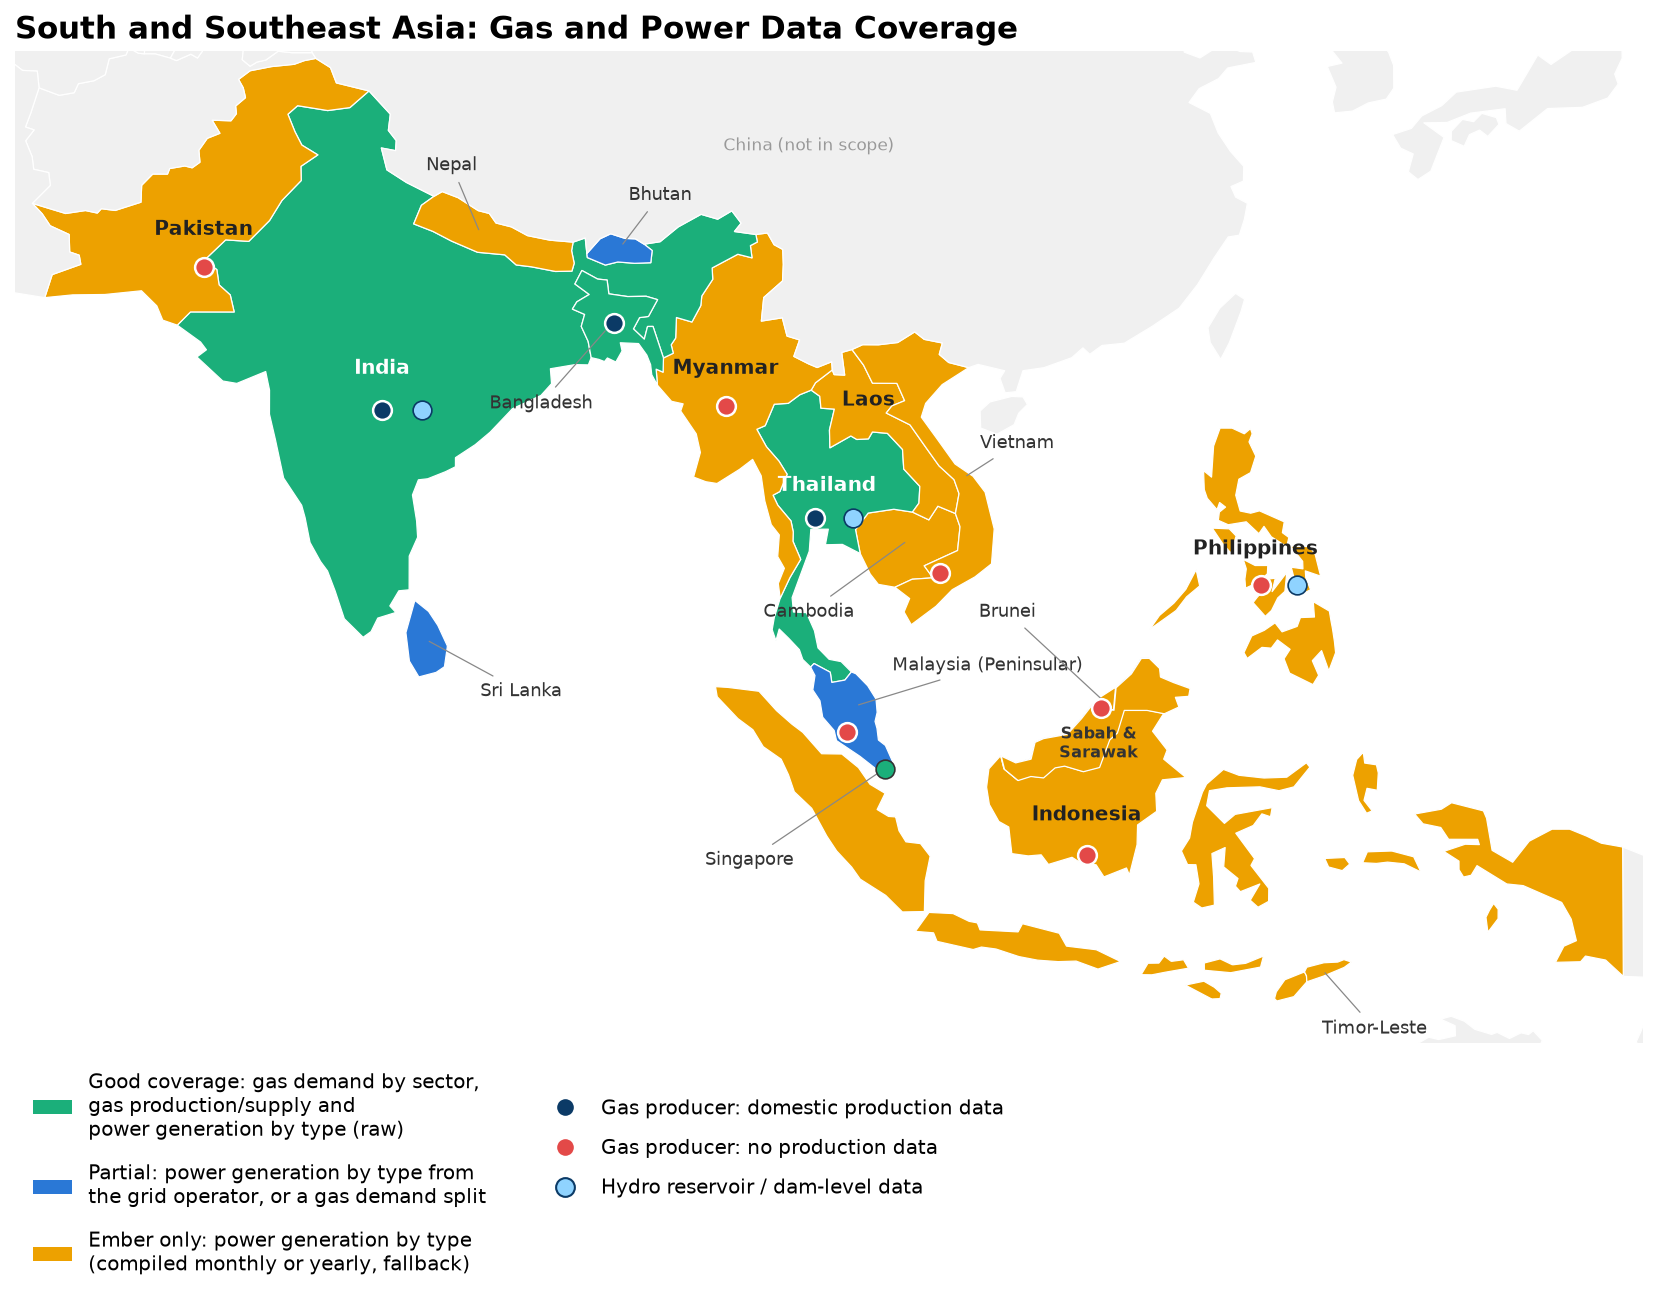
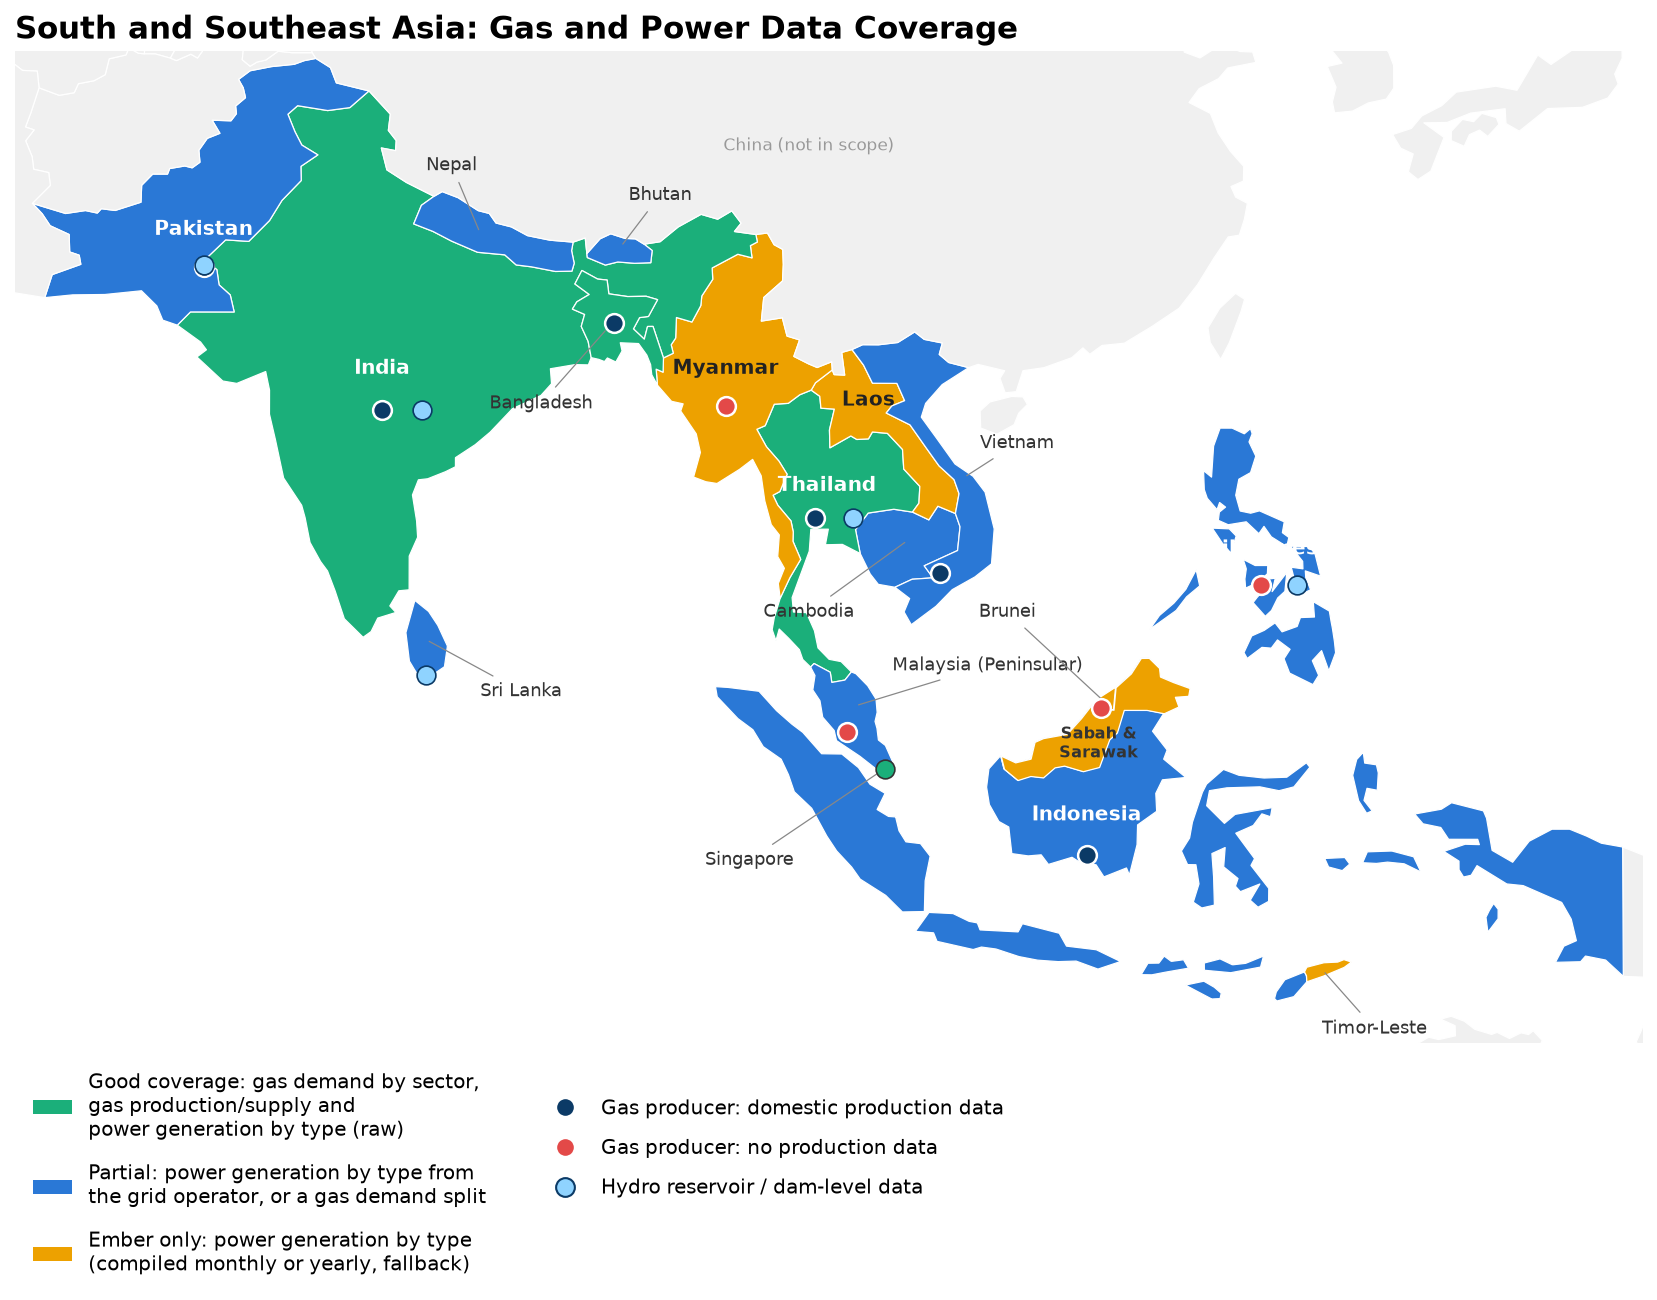
Coverage maps: Vietnam, Pakistan, Indonesia, Philippines, Cambodia, Nepal updated to what we pull; hydro dots for Pakistan and Sri Lanka; Philippines label as callout
Claude-Session: https://claude.ai/code/session_017JZ6NtiEGTPcCx8fG8R1Sb

diff --git a/asia/SOUTH_SOUTHEAST_ASIA_COVERAGE_MAP.py b/asia/SOUTH_SOUTHEAST_ASIA_COVERAGE_MAP.py
@@ -45,21 +45,23 @@ COVERAGE = {
     "Sri Lanka": ("blue", "Power PUCSL (no gas market)"),
     "Bhutan": ("blue", "Power BPSO (no gas)"),
     "Malaysia": ("blue", "Power GSO, Peninsular Malaysia only; Single Buyer prices; no gas data"),
-    "Pakistan": ("amber", "Power: Ember monthly"),
-    "Vietnam": ("amber", "Power: Ember monthly"),
-    "Philippines": ("amber", "Power: Ember monthly; IEMOP market demand and prices; PAGASA dam levels"),
-    "Indonesia": ("amber", "Power: Ember yearly"),
+    "Pakistan": ("blue", "Power: CPPA-G / NEPRA monthly filings (national grid); gas production by province (PBS, to Mar 2024); "
+                         "reservoirs IRSA/WAPDA"),
+    "Vietnam": ("blue", "Power: EVN / NSMO daily (from May 2023); gas: NSO monthly tables (from 2015)"),
+    "Philippines": ("blue", "Power: IEMOP plant dispatch by fuel (Ember shown in the master until a year of history); DOE capacity; "
+                             "prices; PAGASA dam levels; no gas data"),
+    "Indonesia": ("blue", "Gas production by contractor + use by sector (Ditjen Migas); power: Ember yearly"),
     "Myanmar": ("amber", "Power: Ember yearly"),
-    "Cambodia": ("amber", "Power: Ember yearly"),
+    "Cambodia": ("blue", "Power: EAC annual reports (raw, annual rows); EAC capacity; no gas"),
     "Laos": ("amber", "Power: Ember yearly"),
     "Brunei": ("amber", "Power: Ember yearly"),
-    "Nepal": ("amber", "Power: Ember yearly"),
+    "Nepal": ("blue", "Power: NEA load dispatch daily reports (Apr 2023 - Jan 2025, gap Feb 2025 - Sep 2026, filled from Ember); no gas"),
     "Timor-Leste": ("amber", "Power: Ember yearly"),
 }
 SABAH_SARAWAK = "amber"     # Malaysia east of 105E: no GSO feed, Ember (national) only
-GAS_PRODUCERS = {"India": True, "Bangladesh": True, "Thailand": True, "Pakistan": False, "Malaysia": False,
-                 "Indonesia": False, "Myanmar": False, "Brunei": False, "Vietnam": False, "Philippines": False}
-HYDRO = {"India", "Thailand", "Philippines"}
+GAS_PRODUCERS = {"India": True, "Bangladesh": True, "Thailand": True, "Pakistan": True, "Malaysia": False,
+                 "Indonesia": True, "Myanmar": False, "Brunei": False, "Vietnam": True, "Philippines": False}
+HYDRO = {"India", "Thailand", "Philippines", "Pakistan", "Sri Lanka"}   # CEA, RID, PAGASA, IRSA/WAPDA, PUCSL
 DOT_HAVE, DOT_MISSING, DOT_HYDRO = "#0B3A66", "#E34948", "#8FD3FF"
 SINGAPORE = (103.82, 1.35)
 OUT_OF_SCOPE = {"China", "Taiwan", "Afghanistan", "Iran", "Tajikistan", "Turkmenistan", "Uzbekistan", "Kyrgyzstan",

diff --git a/asia/SOUTHEAST_ASIA_COVERAGE_MAP.py b/asia/SOUTHEAST_ASIA_COVERAGE_MAP.py
@@ -31,12 +31,12 @@ SE_ASIA = ["Thailand", "Vietnam", "Philippines", "Indonesia", "Malaysia", "Singa
            "Brunei", "Timor-Leste"]
 XMIN, XMAX, YMIN, YMAX = 92, 142, -12, 29
 # in-country labels (lon, lat); dots sit below/beside them
-LABEL_AT = {"Thailand": (101.0, 16.6), "Myanmar": (96.3, 21.8), "Laos": (102.9, 19.9), "Indonesia": (114.5, -1.2),
-            "Philippines": (122.6, 13.3)}
+LABEL_AT = {"Thailand": (101.0, 16.6), "Myanmar": (96.3, 21.8), "Laos": (102.9, 19.9), "Indonesia": (114.5, -1.2)}
 # callouts: name -> (label lon, label lat, target lon, target lat)
 CALLOUTS = {"Vietnam": (112.5, 17.0, 108.3, 15.5), "Cambodia": (103.0, 8.3, 104.5, 12.6),
             "Malaysia": (97.0, 5.0, 101.9, 4.2), "Brunei": (118.5, 7.6, 114.7, 4.6),
-            "Timor-Leste": (130.5, -10.6, 125.9, -8.8), "Singapore": (99.5, -1.5, 103.82, 1.35)}
+            "Timor-Leste": (130.5, -10.6, 125.9, -8.8),
+            "Philippines": (132.0, 15.5, 123.0, 15.0), "Singapore": (99.5, -1.5, 103.82, 1.35)}
 DOT_AT = {"Thailand": (100.3, 14.3), "Myanmar": (95.8, 19.8), "Indonesia": (114.5, -3.2), "Philippines": (122.9, 11.3),
           "Vietnam": (106.4, 11.0), "Malaysia": (102.2, 3.0), "Brunei": (114.7, 4.4)}
 HYDRO_AT = {"Thailand": (102.4, 14.3), "Philippines": (124.8, 11.3)}
